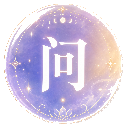
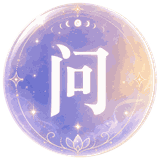
Fix home resource fidelity and tab bar

diff --git a/docs/ITERATION_LOG.md b/docs/ITERATION_LOG.md
@@ -78,3 +78,14 @@
 - 基线/对比：`git diff --stat -- miniprogram/assets/home-v2/home-* miniprogram/pages/index/index.wxml docs/ITERATION_LOG.md`
 - 提交：本提交 `Fix home image asset sizing`
 - 远端状态：待用户确认是否 push
+
+## 2026-06-12 - 首页资源与 Tab 还原修复
+
+- 页面/模块：首页 `home-v2`
+- 改动文件：`miniprogram/assets/home-v2/home-bg-clean.png`、`miniprogram/assets/home-v2/home-card-hero-bg.png`、`miniprogram/assets/home-v2/home-card-small-bg.png`、`miniprogram/assets/home-v2/home-icon-question.png`、`miniprogram/assets/home-v2/home-icon-diary.png`、`miniprogram/assets/home-v2/tab-card-bg.png`、`miniprogram/pages/index/index.wxml`、`miniprogram/pages/index/index.wxss`、`docs/ITERATION_LOG.md`
+- 改动摘要：使用用户新提供的长屏 PNG 背景替换模糊 JPG；从桌面源图重新处理首页大小卡片和问/记图标，只去除边缘棋盘格/白边并保留卡片内部玻璃拟态；接入 `tab-card-bg.png` 作为底部 Tab 玻璃底图，并放大首页卡片、图标和 Tab 资源显示尺寸。
+- 验证：待本次提交前运行资源尺寸检查、`node --check miniprogram/pages/index/index.js`、`python3 -m json.tool project.config.json >/dev/null`、微信开发者工具 `cli preview`。
+- 风险/待确认：新背景为高清 PNG，清晰度优先但包体明显大于上一版 JPG；如果微信预览或审核包体受限，需在不引入模糊延展的前提下进一步压缩背景。
+- 基线/对比：`git diff --stat -- miniprogram/assets/home-v2 miniprogram/pages/index/index.wxml miniprogram/pages/index/index.wxss docs/ITERATION_LOG.md`
+- 提交：待提交
+- 远端状态：待用户确认是否 push
